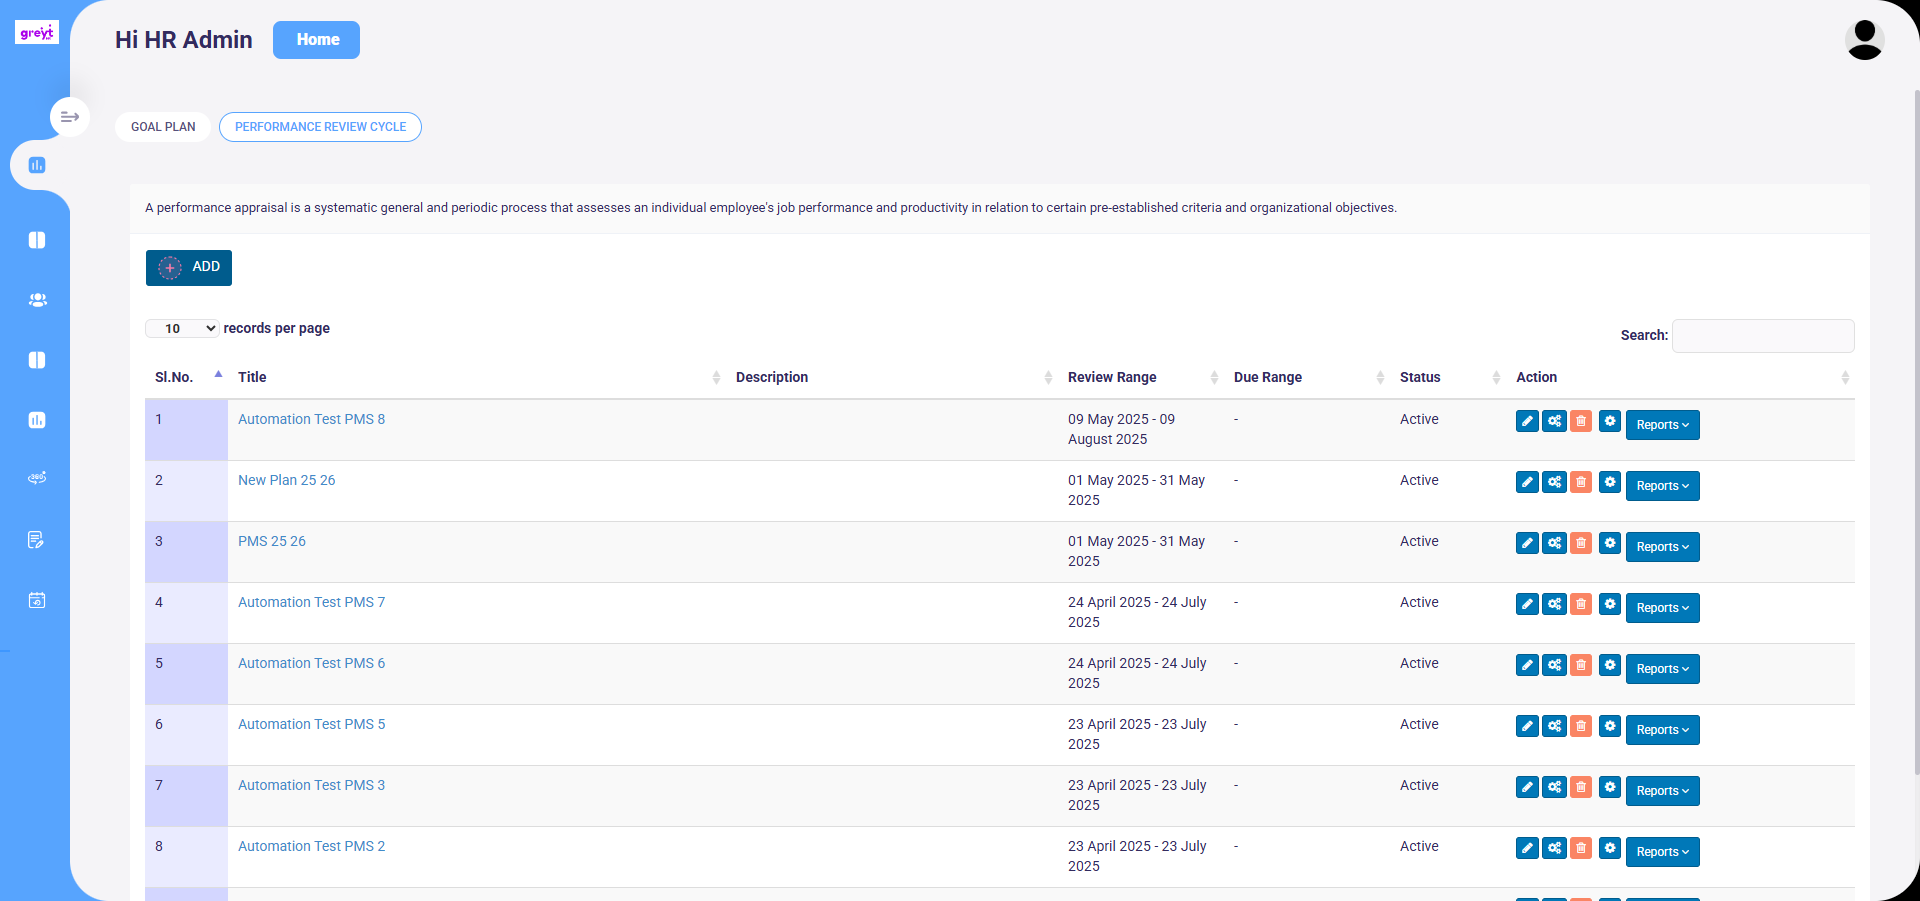
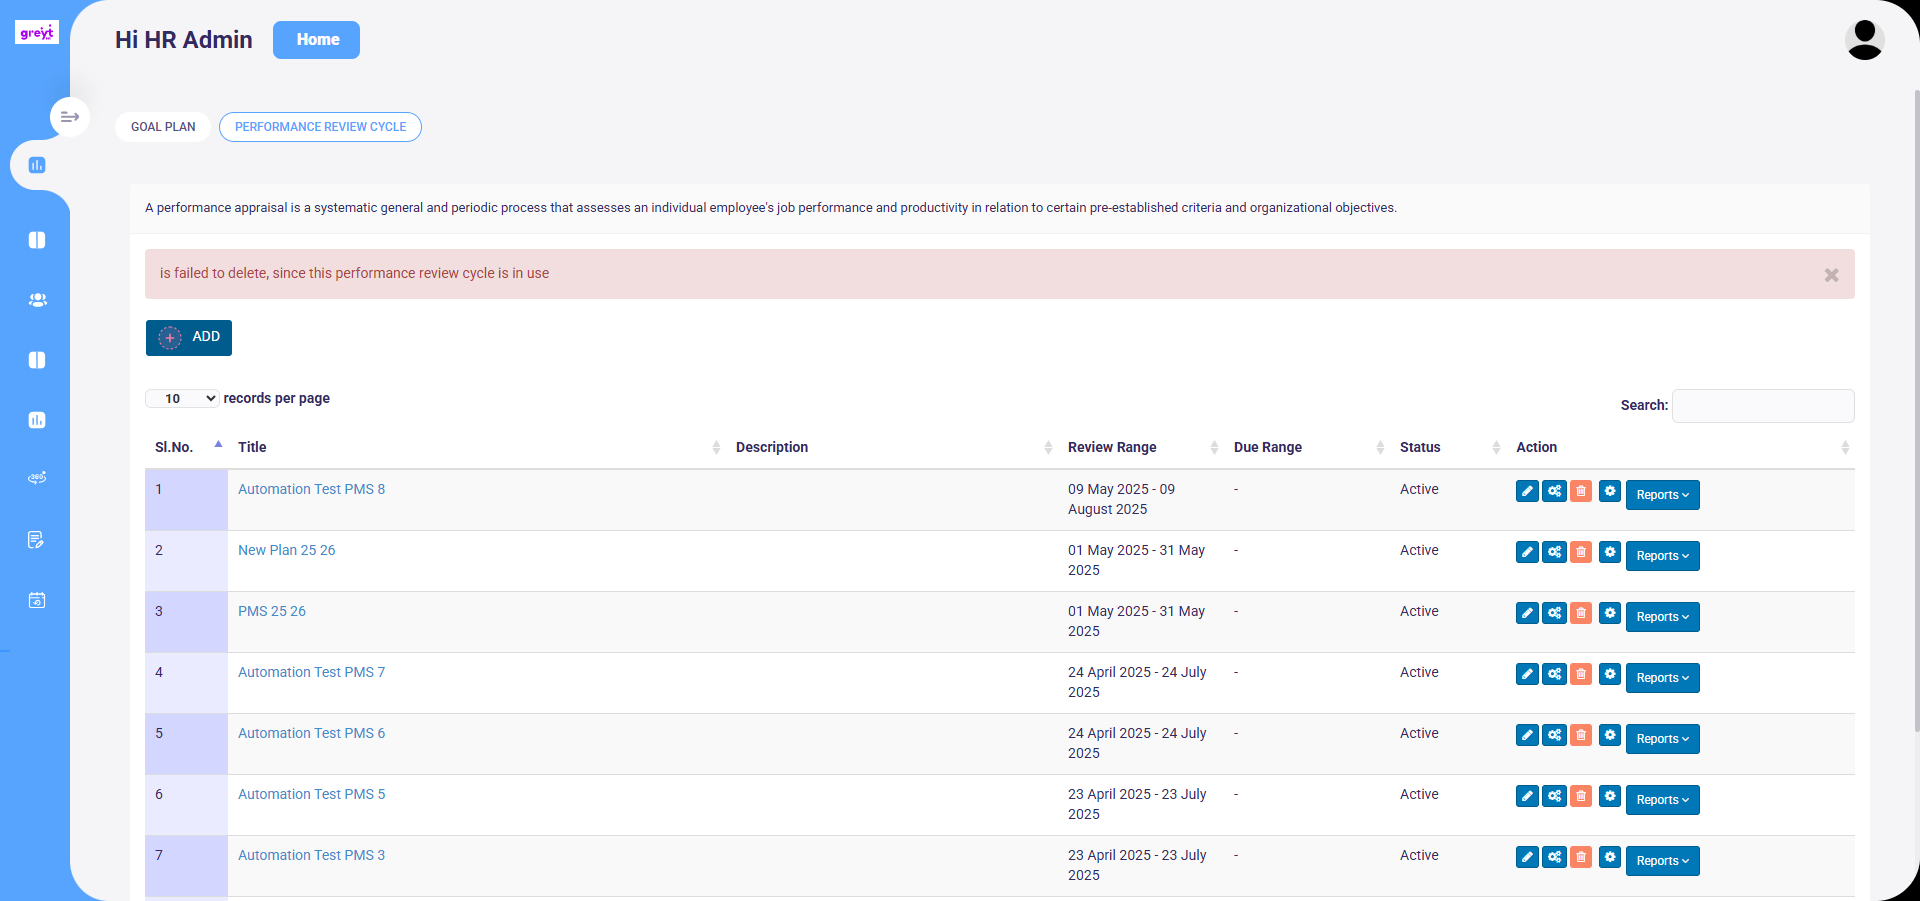
Commit 05

diff --git a/src/main/java/NormalFlowForEmployee/emp_assesment_Submission.java b/src/main/java/NormalFlowForEmployee/emp_assesment_Submission.java
@@ -35,6 +35,8 @@ public class emp_assesment_Submission {
     	  
 		public void selectGoalCycle(String cycleName) throws InterruptedException 
           {
+              Thread.sleep(5000);
+
               try {
                   String Statuss = driver.findElement(By.xpath("//span[contains(text(),'Appraisal Initiated')]")).getText();
                   Statuss.equals("Appraisal Initiated");
@@ -88,7 +90,7 @@ public class emp_assesment_Submission {
                   Thread.sleep(500);
 
               }
-              catch (Exception e) {
+              finally {
                   System.out.println("Assessment completed");
               }
 
@@ -122,8 +124,14 @@ public class emp_assesment_Submission {
     	  }
     	  public String isSelfsub() throws InterruptedException {
 
-              By Isvisible = (By.xpath("//span[contains(text(),'Self Review Completed')]"));
+                Thread.sleep(4000);
+              WebElement element = driver.findElement(By.xpath("(//div[@class=\"card list-view-card\"])[1]"));
+              // Use JavaScriptExecutor to click on the element
+              JavascriptExecutor executor = (JavascriptExecutor) driver;
+              executor.executeScript("arguments[0].click();", element);
 
+
+              By Isvisible = (By.xpath("//span[contains(text(),'Self Review Completed')]"));
               WebDriverWait wait = new WebDriverWait(driver, Duration.ofSeconds(40));
               WebElement Exp= wait.until(ExpectedConditions.visibilityOfElementLocated(Isvisible));
 

diff --git a/src/main/java/NormalFlowForEmployee/Delete_the_PMS_Cycle.java b/src/main/java/NormalFlowForEmployee/Delete_the_PMS_Cycle.java
@@ -25,6 +25,7 @@ public void Deletion() throws InterruptedException {
     String goal = prop.getProperty("GoalPalnName");
     JavascriptExecutor Srollup = (JavascriptExecutor) driver;
     Srollup.executeScript("window.scrollBy(0,1800)");
+	Thread.sleep(2000);
     driver.findElement(By.xpath("//h3[contains(text(),'PMS Program Management')][1]")).click();
     WebElement drop = driver.findElement(By.xpath("//select[@ng-model=\"encReviewCycleId\"]"));
 //    driver.findElement(By.xpath("//select[@ng-model=\"encReviewCycleId\"]")).click();
